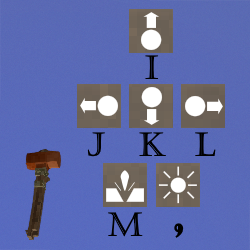
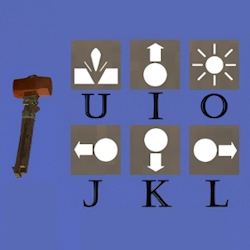
0.0.2 version

diff --git a/source/ModSystems.cs b/source/ModSystems.cs
@@ -10,7 +10,7 @@ namespace EasyHammerMode.source
     {
         [ProtoMember(1)]
         public int Mode { get; set; }
-        
+
         [ProtoMember(2)]
         public int SlotId { get; set; }
     }
@@ -21,7 +21,7 @@ namespace EasyHammerMode.source
         public required ICoreServerAPI sapi;
         public required IClientNetworkChannel clientChannel;
         public required IServerNetworkChannel serverChannel;
-        
+
         private const string ChannelName = "easyhammermodepacket";
 
         public override void Start(ICoreAPI api)
@@ -31,75 +31,91 @@ namespace EasyHammerMode.source
                 .RegisterChannel(ChannelName)
                 .RegisterMessageType<HammerModePacket>();
         }
-        
+
         public override void StartClientSide(ICoreClientAPI api)
         {
             capi = api;
-            
+
             // Set up client network channel
             clientChannel = api.Network.GetChannel(ChannelName);
             try
             {
-                api.Input.RegisterHotKeyFirst("set-hammer-mode-hit", "Set Hammer Mode Hit", GlKeys.O, HotkeyType.CharacterControls);
-                api.Input.RegisterHotKeyFirst("set-hammer-mode-split", "Set Hammer Mode Split", GlKeys.U, HotkeyType.CharacterControls);
                 api.Input.RegisterHotKeyFirst("set-hammer-mode-upsetright", "Set Hammer Mode Upset Right", GlKeys.L, HotkeyType.CharacterControls);
                 api.Input.RegisterHotKeyFirst("set-hammer-mode-upsetdown", "Set Hammer Mode Upset Down", GlKeys.K, HotkeyType.CharacterControls);
                 api.Input.RegisterHotKeyFirst("set-hammer-mode-upsetleft", "Set Hammer Mode Upset Left", GlKeys.J, HotkeyType.CharacterControls);
+                api.Input.RegisterHotKeyFirst("set-hammer-mode-hit", "Set Hammer Mode Hit", GlKeys.O, HotkeyType.CharacterControls);
                 api.Input.RegisterHotKeyFirst("set-hammer-mode-upsetup", "Set Hammer Mode Upset Up", GlKeys.I, HotkeyType.CharacterControls);
+                api.Input.RegisterHotKeyFirst("set-hammer-mode-split", "Set Hammer Mode Split", GlKeys.U, HotkeyType.CharacterControls);
             }
             catch (Exception)
             {
                 capi.Logger.Warning("Easy Hammer Mode - Failed to register hotkeys. They may already be registered.");
             }
 
-            api.Input.SetHotKeyHandler("set-hammer-mode-upsetup", x => SetHammerMode(1));
-            api.Input.SetHotKeyHandler("set-hammer-mode-upsetleft", x => SetHammerMode(4));
-            api.Input.SetHotKeyHandler("set-hammer-mode-upsetdown", x => SetHammerMode(3));
             api.Input.SetHotKeyHandler("set-hammer-mode-upsetright", x => SetHammerMode(2));
-            api.Input.SetHotKeyHandler("set-hammer-mode-split", x => SetHammerMode(5));
+            api.Input.SetHotKeyHandler("set-hammer-mode-upsetdown", x => SetHammerMode(3));
+            api.Input.SetHotKeyHandler("set-hammer-mode-upsetleft", x => SetHammerMode(4));
             api.Input.SetHotKeyHandler("set-hammer-mode-hit", x => SetHammerMode(0));
+            api.Input.SetHotKeyHandler("set-hammer-mode-upsetup", x => SetHammerMode(1));
+            api.Input.SetHotKeyHandler("set-hammer-mode-split", x => SetHammerMode(5));
         }
-        
+
         public override void StartServerSide(ICoreServerAPI api)
         {
             sapi = api;
-            
+
             // Set up server network channel and message handler
             serverChannel = api.Network.GetChannel(ChannelName)
                 .SetMessageHandler<HammerModePacket>(OnHammerModePacket);
         }
-        
-        private void OnHammerModePacket(IPlayer fromPlayer, HammerModePacket packet)
-        {
-            // Try different ways to get the hotbar inventory
-            var hotbarInventory = fromPlayer.InventoryManager.GetHotbarInventory();
-            var itemSlot = hotbarInventory[packet.SlotId];
-            var item = itemSlot.Itemstack?.Collectible;
-            if (
-                hotbarInventory == null ||
-                packet.SlotId < 0 || packet.SlotId >= hotbarInventory.Count ||
-                itemSlot == null || itemSlot.Empty ||
-                item?.GetType().Name != "ItemHammer"
-            )
-            {
-                return;
-            }
-
-            // Set the tool mode on the server side
-            item.SetToolMode(itemSlot, fromPlayer, fromPlayer.CurrentBlockSelection, packet.Mode);
-        }
 
         public bool SetHammerMode(int mode)
         {
-            // Get the client player
             var player = capi.World.Player;
-            var activeSlot = player.InventoryManager.ActiveHotbarSlot;
-            var item = activeSlot.Itemstack?.Collectible;
+            if (player == null)
+            {
+                return false;
+            }
+
+            IInventory hotbarInventory = null;
+            ItemSlot activeSlot = null;
+            int activeSlotNumber = -1;
+
+            try
+            {
+                if (capi.ModLoader.IsModEnabled("xskills"))
+                {
+                    hotbarInventory = player.InventoryManager.GetOwnInventory("xskillshotbar");
+                    if (hotbarInventory != null)
+                    {
+                        activeSlotNumber = player.InventoryManager.ActiveHotbarSlotNumber;
+                        if (activeSlotNumber >= 0 && activeSlotNumber < hotbarInventory.Count)
+                        {
+                            activeSlot = hotbarInventory[activeSlotNumber];
+                        }
+                    }
+                }
+
+                if (hotbarInventory == null || activeSlot == null)
+                {
+                    hotbarInventory = player.InventoryManager.GetHotbarInventory();
+                    activeSlot = player.InventoryManager.ActiveHotbarSlot;
+                    activeSlotNumber = player.InventoryManager.ActiveHotbarSlotNumber;
+                }
+            }
+            catch (Exception)
+            {
+                hotbarInventory = player.InventoryManager.GetHotbarInventory();
+                activeSlot = player.InventoryManager.ActiveHotbarSlot;
+                activeSlotNumber = player.InventoryManager.ActiveHotbarSlotNumber;
+            }
+
+            var item = activeSlot?.Itemstack?.Collectible;
             if (
-                player == null ||
+                hotbarInventory == null ||
                 activeSlot == null || activeSlot.Empty ||
                 item == null ||
-                item.GetType().Name != "ItemHammer"
+                (!item.GetType().Name.Contains("ItemHammer"))
             )
             {
                 return false;
@@ -107,14 +123,79 @@ namespace EasyHammerMode.source
 
             // Set the tool mode on the client side
             item.SetToolMode(activeSlot, player, player.CurrentBlockSelection, mode);
-            
+
             // Send packet to server for synchronization
             var packet = new HammerModePacket
             {
                 Mode = mode,
-                SlotId = player.InventoryManager.ActiveHotbarSlotNumber
+                SlotId = activeSlotNumber
             };
             clientChannel.SendPacket(packet);
             
             return true;
         }
+
+        private void OnHammerModePacket(IPlayer fromPlayer, HammerModePacket packet)
+        {
+            IInventory hotbarInventory = null;
+            string inventoryUsed = "unknown";
+
+            try
+            {
+                if (sapi.ModLoader.IsModEnabled("xskills"))
+                {
+                    hotbarInventory = fromPlayer.InventoryManager.GetOwnInventory("xskillshotbar");
+                    inventoryUsed = "xskillshotbar";
+
+                    if (hotbarInventory == null || hotbarInventory.Count == 0)
+                    {
+                        hotbarInventory = fromPlayer.InventoryManager.GetHotbarInventory();
+                        inventoryUsed = "vanilla hotbar";
+                    }
+                    else
+                    {
+                        // Check if the item is actually in the XSkills hotbar at the specified slot
+                        if (packet.SlotId >= 0 && packet.SlotId < hotbarInventory.Count)
+                        {
+                            var testSlot = hotbarInventory[packet.SlotId];
+                            if (testSlot == null || testSlot.Empty)
+                            {
+                                hotbarInventory = fromPlayer.InventoryManager.GetHotbarInventory();
+                                inventoryUsed = "vanilla hotbar (XSkills slot empty)";
+                            }
+                        }
+                    }
+                }
+                else
+                {
+                    hotbarInventory = fromPlayer.InventoryManager.GetHotbarInventory();
+                    inventoryUsed = "vanilla hotbar";
+                }
+            }
+            catch (Exception ex)
+            {
+                hotbarInventory = fromPlayer.InventoryManager.GetHotbarInventory();
+                inventoryUsed = "fallback vanilla hotbar";
+            }
+
+            if (
+                hotbarInventory == null ||
+                packet.SlotId < 0 || packet.SlotId >= hotbarInventory.Count
+            )
+            {
+                return;
+            }
+
+            var itemSlot = hotbarInventory[packet.SlotId];
+            var item = itemSlot?.Itemstack?.Collectible;
+
+            if (itemSlot == null || itemSlot.Empty || item == null || !item.GetType().Name.Contains("ItemHammer"))
+            {
+                return;
+            }
+
+            // Set the tool mode on the server side
+            item.SetToolMode(itemSlot, fromPlayer, fromPlayer.CurrentBlockSelection, packet.Mode);
+        }
+    }
+}
